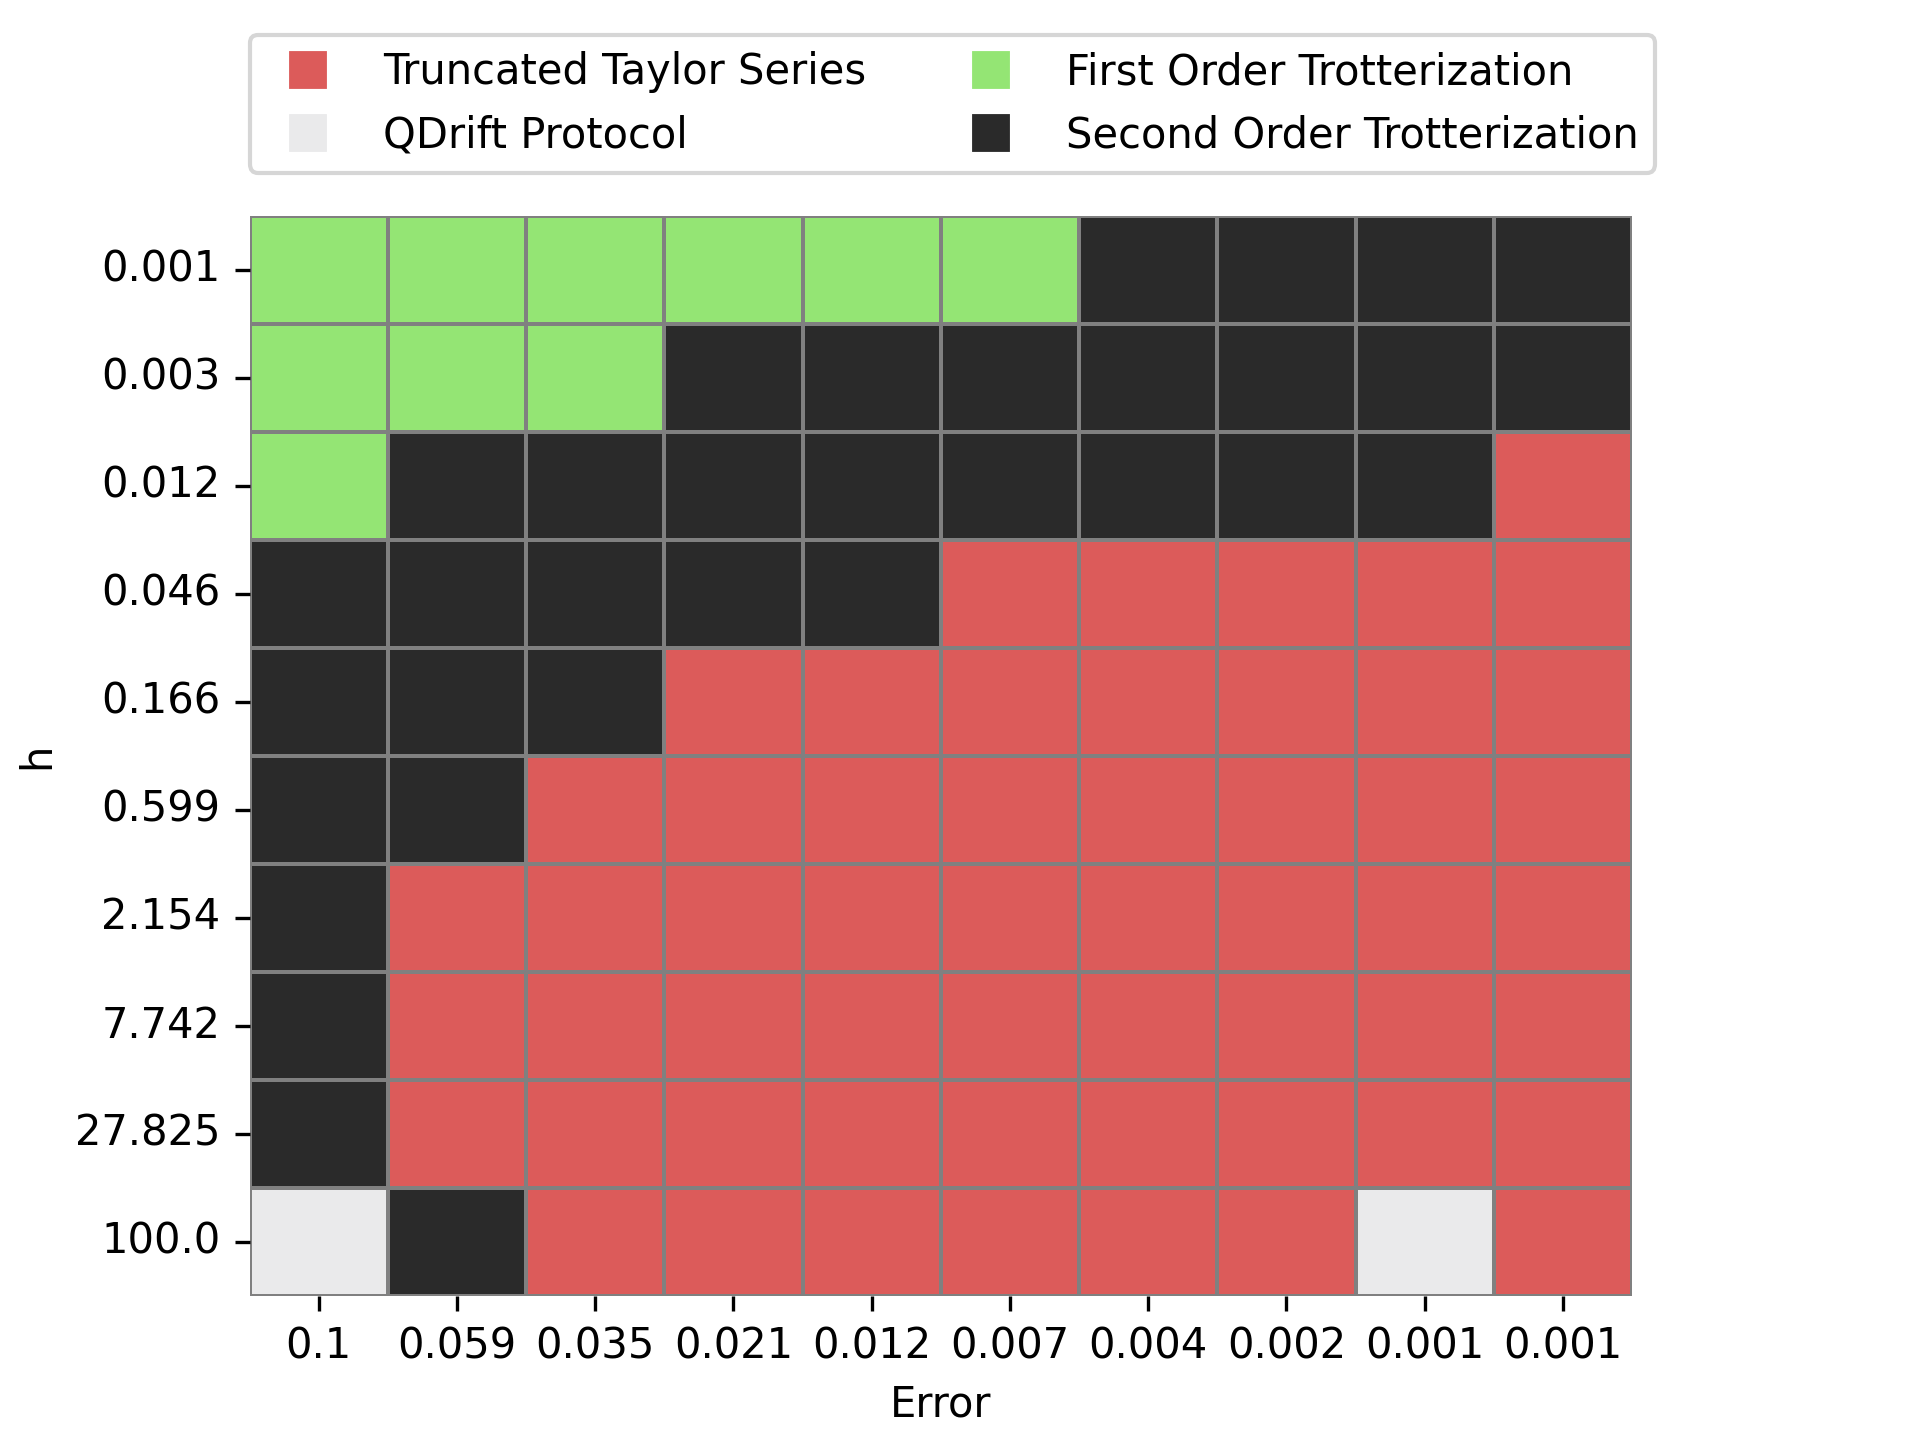
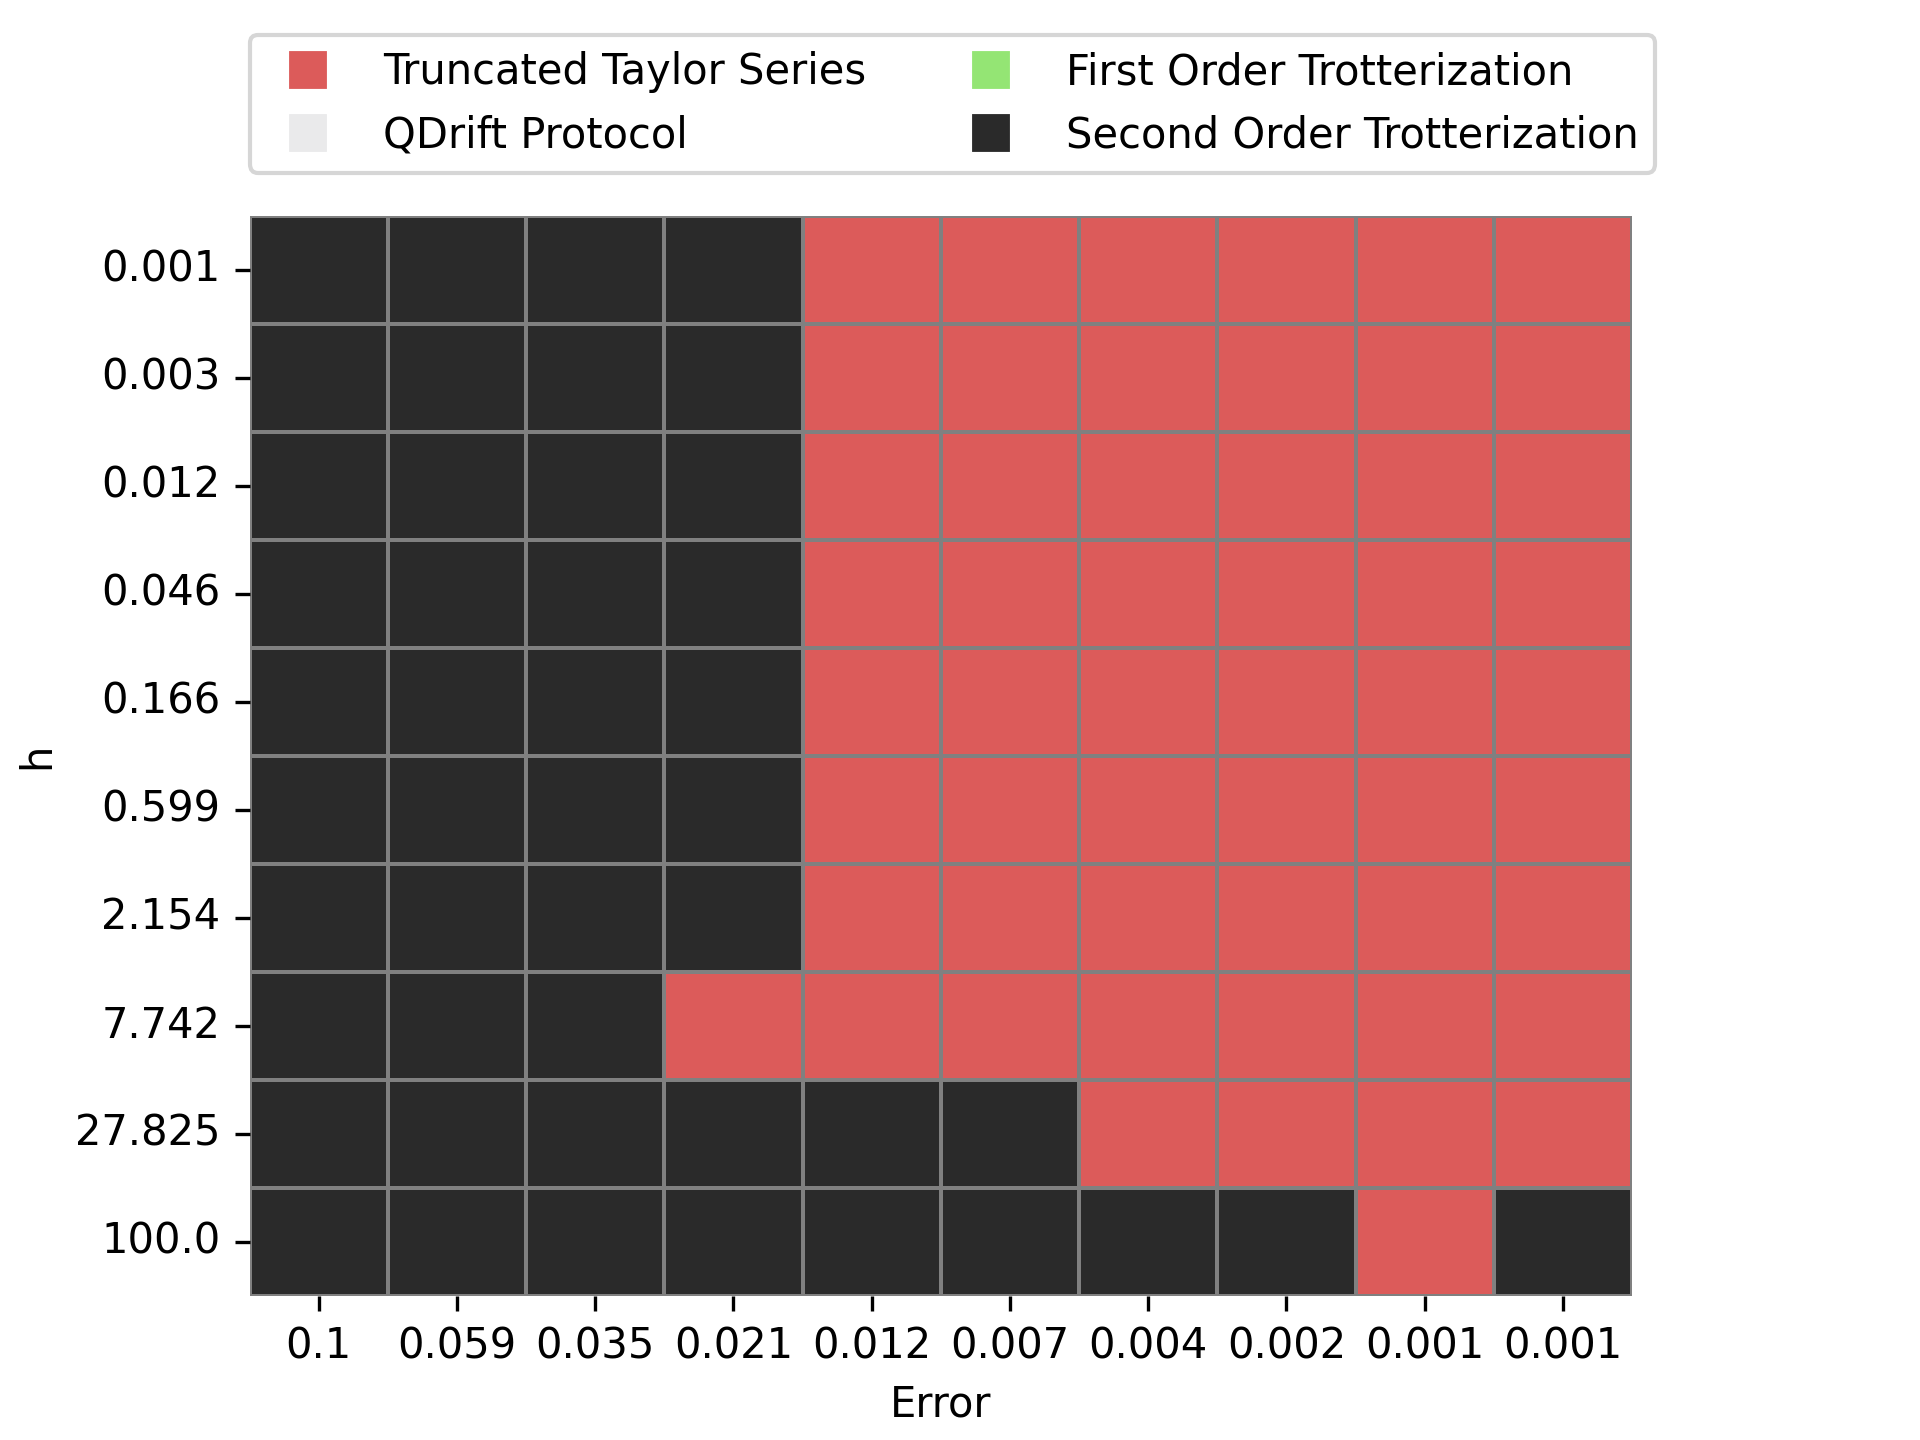
adding grid plot

Changed region(s): [[0.125, 0.125, 0.875, 0.9062]]

diff --git a/ising/benchmark/grid/ising_h_vs_eps.py b/ising/benchmark/grid/ising_h_vs_eps.py
@@ -6,15 +6,15 @@ from ising.benchmark.gates import (
     KTrotterBenchmarkTime,
 )
 from ising.hamiltonian.ising_one import qdrift_count
-from ising.utils.commutator import (
-    commutator_r_second_order,
+from ising.utils.commutator.commutator_hueristic import (
+    r_second_order,
     alpha_commutator_second_order,
     alpha_commutator_first_order,
-    commutator_r_first_order,
+    r_first_order,
 )
 import json
 
-QUBITS = 15
+QUBITS = 25
 TIME = 1.0
 ORDER = 2
 
@@ -36,7 +36,7 @@ def _truncate(num, digits=5):
 from ising.hamiltonian import parametrized_ising
 
 
-def main():
+def test_main():
     answers = {
         "META": {"QUBITS": str(QUBITS), "TIME": str(TIME), "GATE": str(GATE)},
         "taylor": {},
@@ -50,10 +50,19 @@ def main():
         10**x for x in np.linspace(ERROR_RANGE[0], ERROR_RANGE[1], ERROR_COUNT)
     ]
     h_points = [10**x for x in np.linspace(H_RANGE[0], H_RANGE[1], H_COUNT)]
+    min_error = min(error_points)
 
     for h in h_points:
         h_str = _truncate(h)
         hamiltonian = parametrized_ising(qubits=QUBITS, h=h)
+        sorted_pairs = list(
+            sorted(
+                [(x, y.real) for (x, y) in zip(hamiltonian.paulis, hamiltonian.coeffs)],
+                key=lambda x: abs(x[1]),
+                reverse=True,
+            )
+        )
+
         lambd = np.sum(np.abs(hamiltonian.coeffs))
 
         taylor_bench = TaylorBenchmarkTime(hamiltonian)
@@ -69,8 +78,12 @@ def main():
         answers["trotter2"][h_str] = {}
 
         print("Calculating the alpha commutators")
-        alpha_com_second = alpha_commutator_second_order(hamiltonian.sparse_repr)
-        alpha_com_first = alpha_commutator_first_order(hamiltonian.sparse_repr)
+        alpha_com_first = alpha_commutator_first_order(
+            sorted_pairs, min_error, delta=0, cutoff_count=0
+        )
+        alpha_com_second = alpha_commutator_second_order(
+            sorted_pairs, min_error, delta=0, cutoff_count=0
+        )
         print("Completed the calculation")
 
         for error in error_points:
@@ -85,8 +98,8 @@ def main():
             print(f"Taylor:{count}")
             answers["taylor"][h_str][error_str] = _truncate(count.get(GATE, 0))
 
-            trotter_rep = commutator_r_first_order(
-                hamiltonian.sparse_repr, TIME, error, alpha_com_first
+            trotter_rep = r_first_order(
+                sorted_pairs, TIME, error, alpha_com=alpha_com_first
             )
             count = trotter_bench.simulation_gate_count(TIME, trotter_rep)
             print(f"Trotter:{count}")
@@ -97,8 +110,8 @@ def main():
             print(f"qDRIFT:{count}")
             answers["qdrift"][h_str][error_str] = _truncate(count.get(GATE, 0))
 
-            ktrotter_reps = commutator_r_second_order(
-                hamiltonian.sparse_repr, TIME, error, alpha_com_second
+            ktrotter_reps = r_second_order(
+                sorted_pairs, TIME, error, alpha_com=alpha_com_second
             )
             count = ktrotter_bench.simulation_gate_count(TIME, ktrotter_reps)
             print(f"kTrotter:{count}")
@@ -118,4 +131,4 @@ def main():
 
 
 if __name__ == "__main__":
-    main()
+    test_main()

diff --git a/ising/utils/commutator/commutator_hueristic.py b/ising/utils/commutator/commutator_hueristic.py
@@ -96,7 +96,7 @@ def alpha_commutator_second_order(
                     # TODO: For the sake of bounds
                     return alpha_l
 
-    assert alpha_l == alpha_u
+    assert abs(alpha_l - alpha_u) < 0.0001
     assert cur_count == total_count
 
     return alpha_u
@@ -154,7 +154,7 @@ def alpha_commutator_first_order(
                 return alpha_u
 
     assert cur_count == total_count
-    assert alpha_l == alpha_u
+    assert abs(alpha_l - alpha_u) < 0.0001
 
     return alpha_u
 
